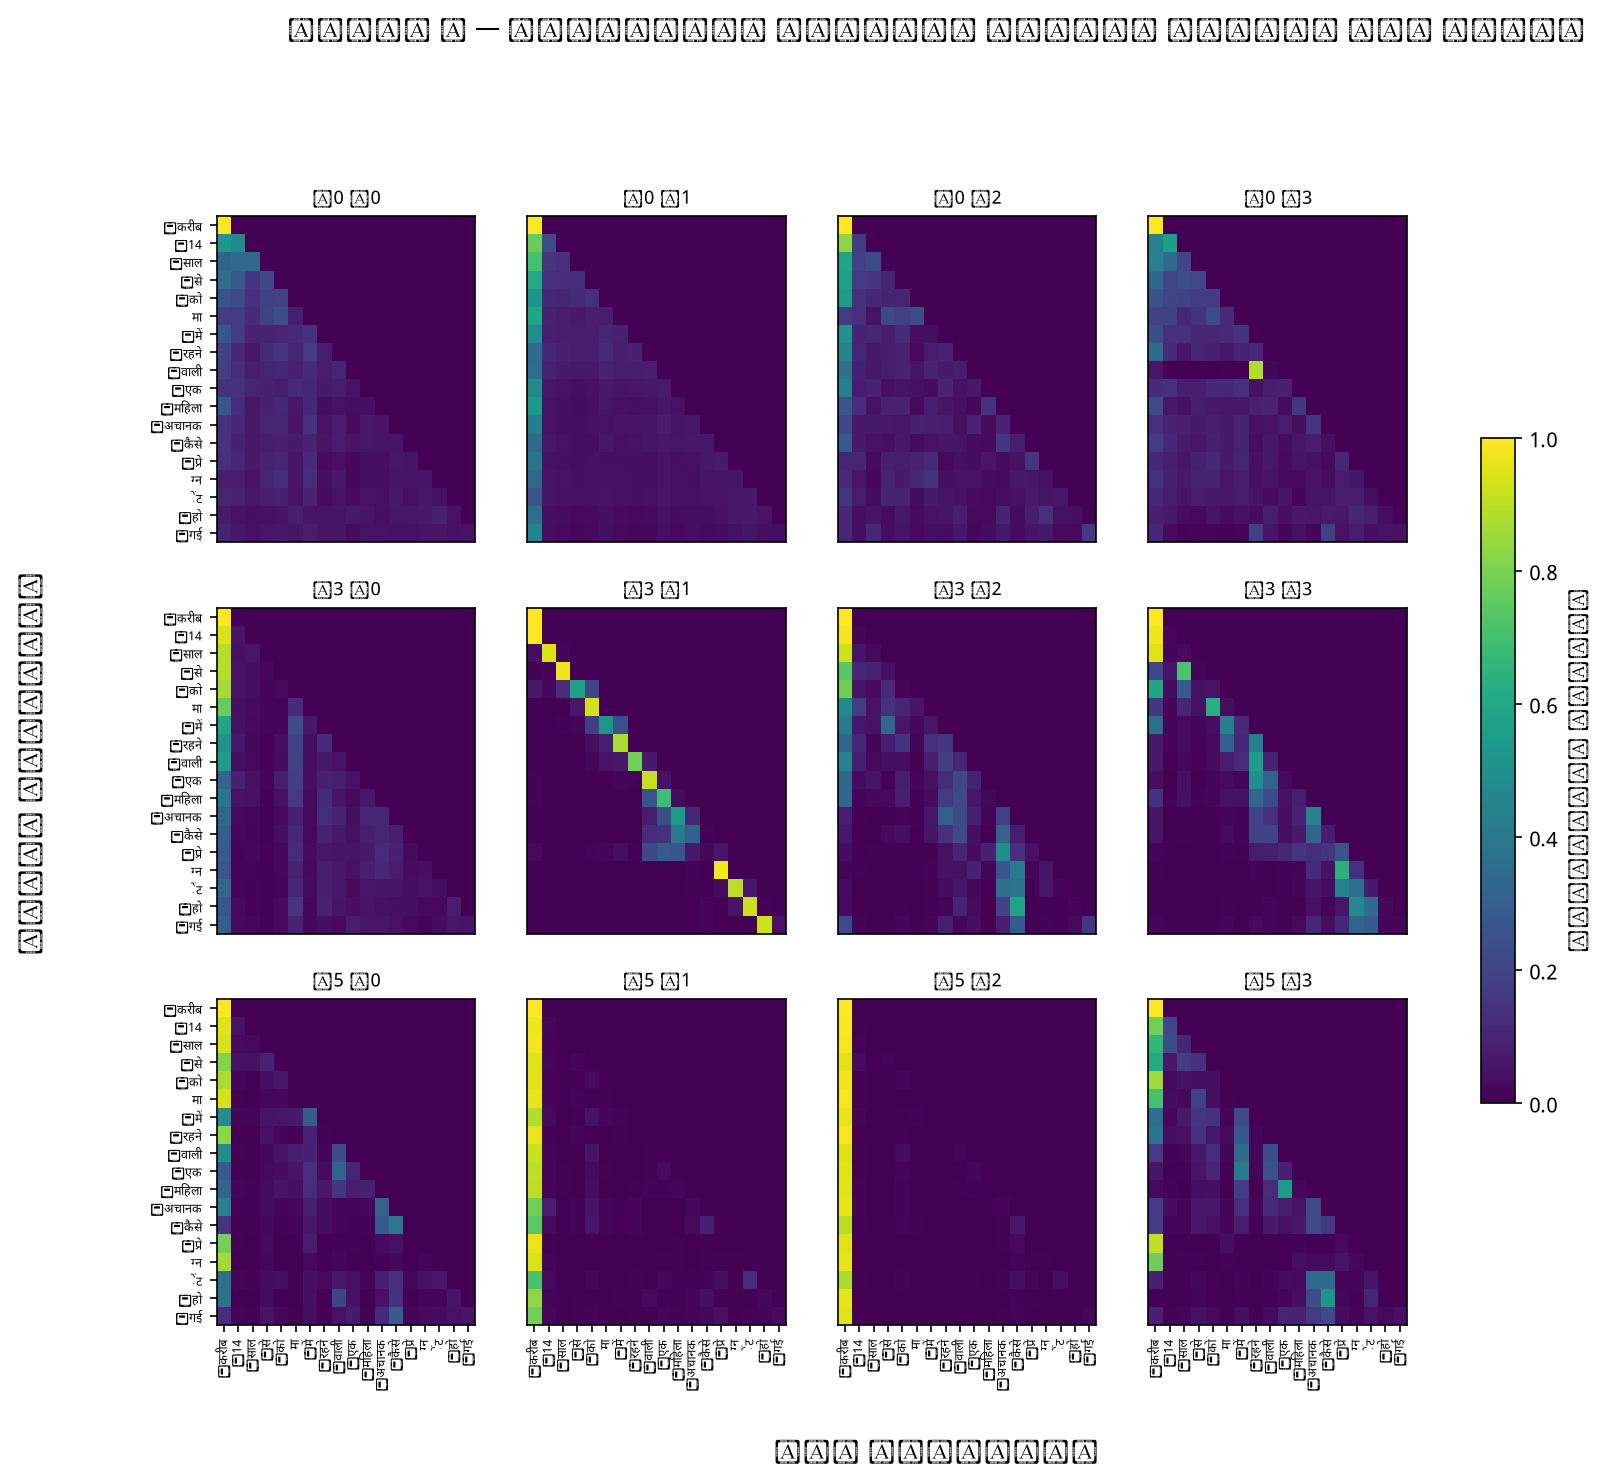
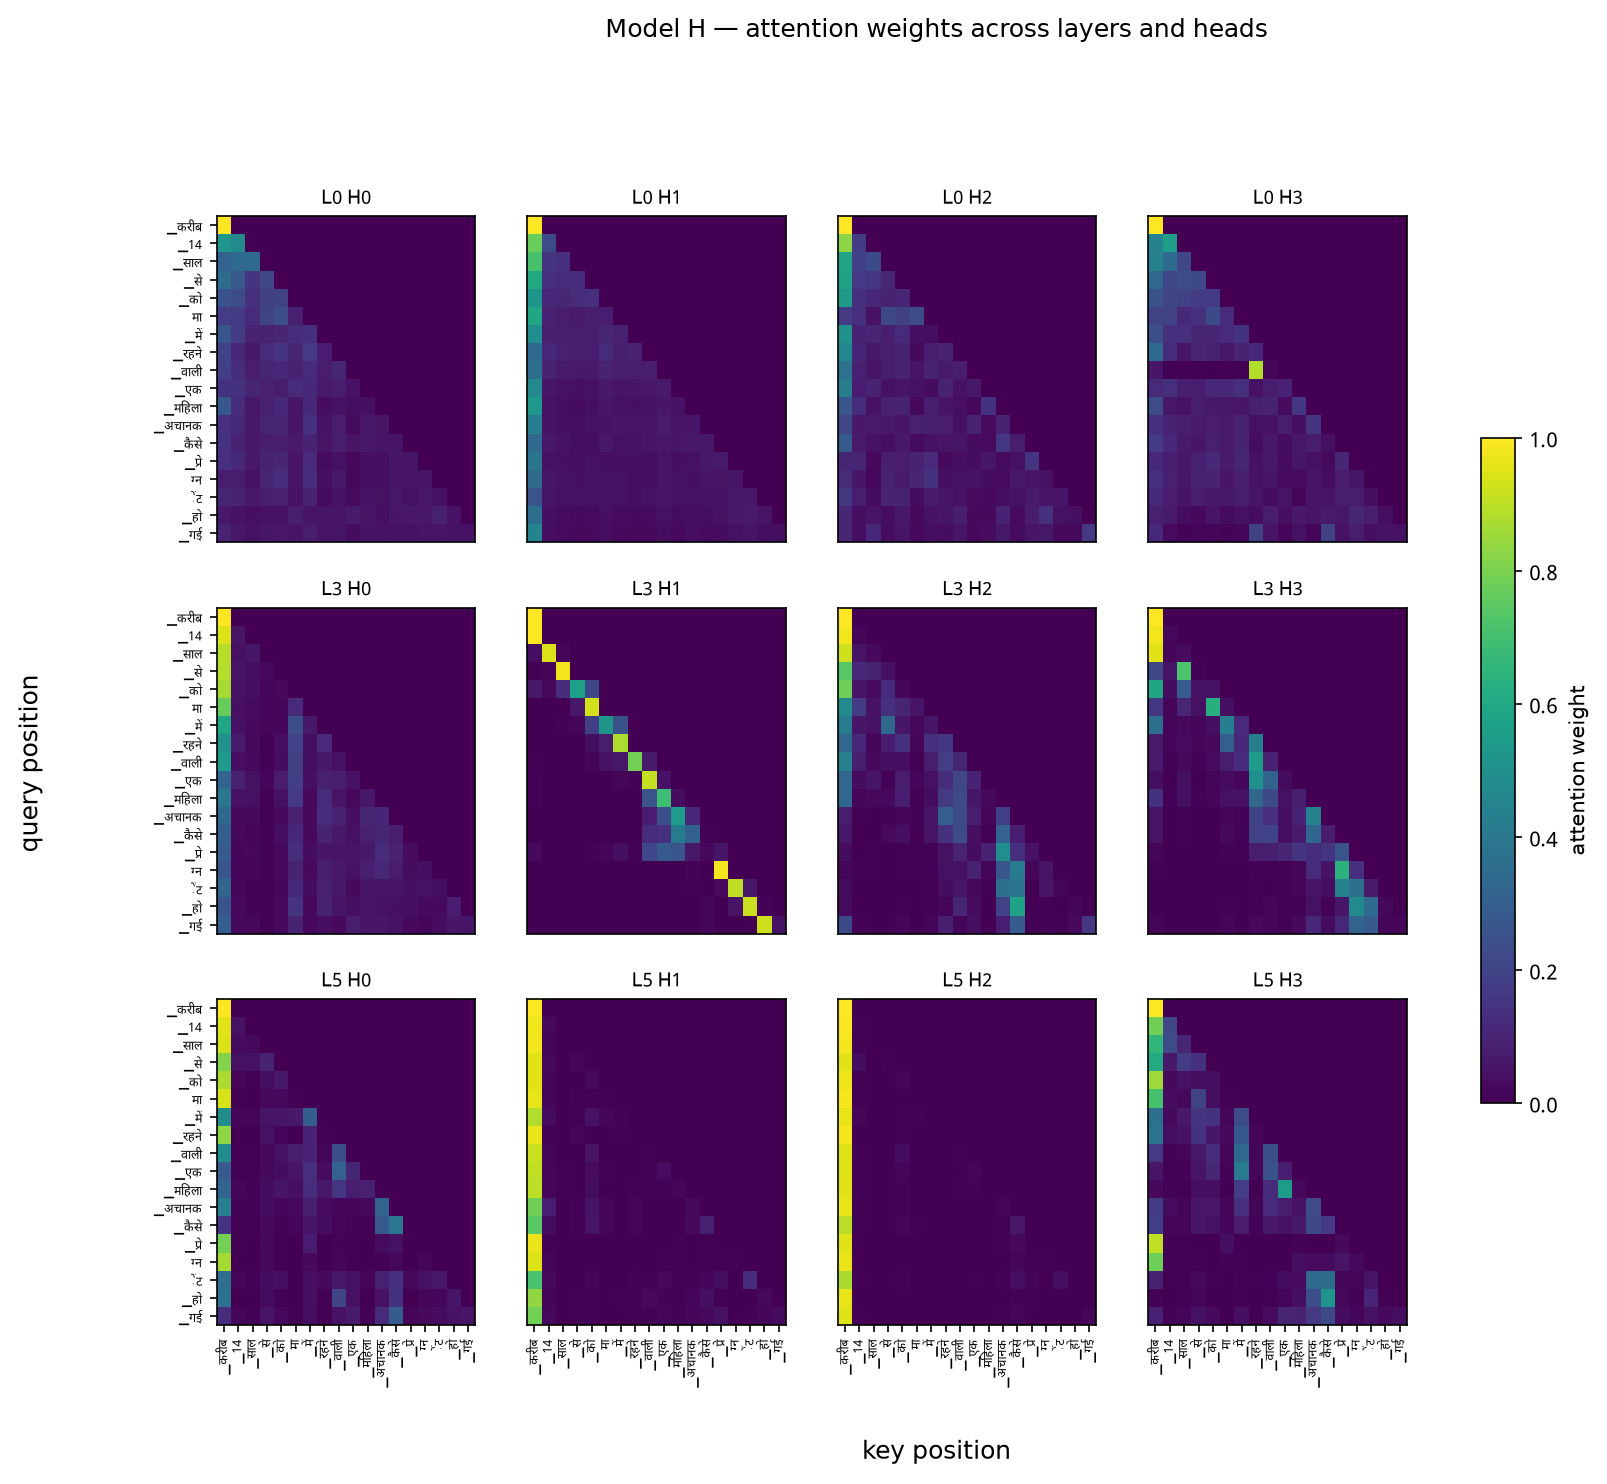
Fix figure fonts so English labels show properly

diff --git a/eval/plots.py b/eval/plots.py
@@ -7,6 +7,8 @@ figure is saved, so that failure mode is structurally impossible here.
 Devanagari text in tick labels needs a font that actually has the glyphs:
 matplotlib's default (DejaVu Sans) renders Hindi/Nepali as empty boxes. Call
 ``setup_devanagari_font()`` once before generating any figure with token labels.
+It installs Noto *and* DejaVu, so the Devanagari and the English on the same
+figure both render -- see that function for why a single family is not enough.
 """
 
 from __future__ import annotations
@@ -23,6 +25,19 @@ _FONT_READY = False
 def setup_devanagari_font(font_path: str | Path = "report/fonts/NotoSansDevanagari-Regular.ttf") -> bool:
     """Register a Devanagari-capable font with matplotlib, once.
 
+    The family is installed as a **list** with DejaVu Sans behind it, not as a
+    single name, and that detail matters. Noto Sans Devanagari covers
+    Devanagari and little else: set alone, it renders every Latin character in
+    a figure -- the title, the axis labels, the legend, "Model H", "layer",
+    "head" -- as an empty box, along with SentencePiece's U+2581 word-boundary
+    marker on token labels. The brief says a plot missing its labels "may
+    receive zero marks for that component", and a label drawn as boxes is a
+    missing label.
+
+    matplotlib walks this list per glyph (multi-font fallback, 3.6+), so
+    Devanagari comes from Noto and everything else from DejaVu Sans, which
+    ships with matplotlib and is always present.
+
     Args:
         font_path: Path to a .ttf with Devanagari coverage.
 
@@ -37,7 +52,7 @@ def setup_devanagari_font(font_path: str | Path = "report/fonts/NotoSansDevanaga
         return False
     font_manager.fontManager.addfont(str(path))
     family = font_manager.FontProperties(fname=str(path)).get_name()
-    rcParams["font.family"] = family
+    rcParams["font.family"] = [family, "DejaVu Sans"]
     _FONT_READY = True
     return True
 
